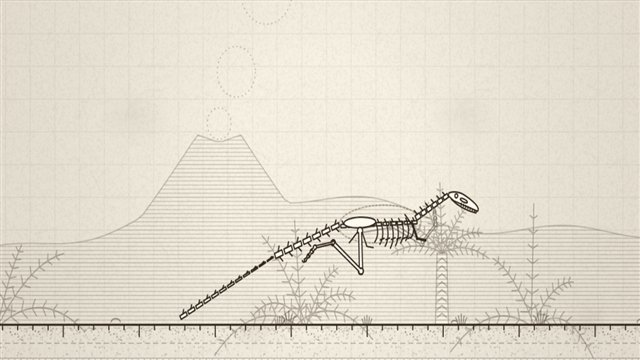
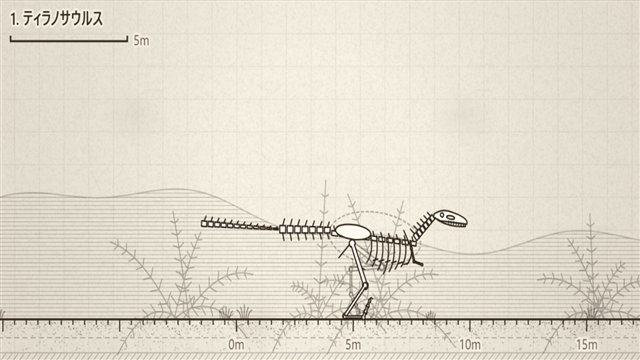
恐竜かけっこ牧場 v009-thumb: サムネイルを元のポーズのティラノに
3案から選んでもらった。?thumb=<絵>（orig・big・raptor・run）で撮り分けられる。既定は orig。

diff --git a/dino-race/js/main.js b/dino-race/js/main.js
@@ -38,14 +38,23 @@ for (const x of ranch) noteRecord(x);
 let resizeT = 0;
 addEventListener('resize', () => { clearTimeout(resizeT); resizeT = setTimeout(() => { paintPortraits($('ranch'), ranch); paintPortraits($('nurseryBox'), kids); if (tab === 'book') drawBookChart(); measureTop(); }, 150); });
 if (new URLSearchParams(location.search).has('thumb')) {
-  // サムネイルを撮るとき（?thumb）: ティラノサウルスを数秒走らせたところで止め、title を ready に
-  // タイトルと同じ絵づくり（1匹を大きく、名前・物差しなし）。v008 からはラプトル
-  document.body.classList.add('thumb', 'titled');
-  const st = [starter(SPECIES[1])];
-  startView(st.map(x => x.g), st.map(x => x.name), {mode: 'idle-run'});
-  for (let i = 0; i < 6.3 / DT; i++) stepRace(VIEW.R); // 胴が水平に近く、脚を大きく開いた瞬間
-  updateCamera(true);
-  drawScene($('view'), VIEW.R, VIEW.cams, {title: true, labels: VIEW.labels, progressH: 0});
+  // サムネイルを撮るとき（?thumb）: 場面を描いて止め、title を ready に。?thumb=<絵> で絵を選ぶ（../tools/make-thumbs.ps1）
+  //   orig（v001〜v007 と同じ: ティラノの2.6秒目、名前と物差しつき）／big（同じティラノを、名前・物差しなしで大きく）／
+  //   raptor（orig の作りで、ラプトルが似た姿勢の瞬間）／run（v008: タイトルと同じ絵づくりで、ラプトル1匹を大きく）
+  const kind = new URLSearchParams(location.search).get('thumb') || 'orig'; // 入口のサムネイルは orig（2026-10-17 ユーザーが3案から選んだ）
+  document.body.classList.add('thumb');
+  const one = (id, t, title) => {
+    if (title) document.body.classList.add('titled');
+    const st = [starter(SPECIES.find(q => q.id === id))];
+    startView(st.map(x => x.g), st.map(x => x.name), {mode: 'idle-run'});
+    for (let i = 0; i < t / DT; i++) stepRace(VIEW.R);
+    updateCamera(true);
+    drawScene($('view'), VIEW.R, VIEW.cams, {title, labels: VIEW.labels, progressH: 0});
+  };
+  if (kind === 'orig') one('trex', 2.6, false);
+  else if (kind === 'big') one('trex', 2.6, true);
+  else if (kind === 'raptor') one('raptor', +(new URLSearchParams(location.search).get('t') || 2.6), false);
+  else one('raptor', 6.3, true); // 胴が水平に近く、脚を大きく開いた瞬間
   document.title = 'ready';
 } else if (typeof planck === 'undefined') {
   // 物理のライブラリ（CDN）が読めなかった

diff --git a/dino-race/index.html b/dino-race/index.html
@@ -9,7 +9,7 @@
 <script>/* 言語 ja／en（まなびラボの I18N.md・edge-falls・flat-history と同じ決め方。localStorage の manabi-lang はまなびラボ・あそびラボで共通）: ?lang= → 前に選んだもの → ブラウザの言語。js の中の文は TX(日本語, 英語)、HTML は <span lang> の対 */var LANG=(function(){var q=new URLSearchParams(location.search).get('lang'),s=null;if(new URLSearchParams(location.search).has('thumb'))q='ja';/* サムネイルは日本語 */try{s=localStorage.getItem('manabi-lang');}catch(e){}var l=q==='en'||q==='ja'?q:s==='en'||s==='ja'?s:/^ja/i.test(navigator.language||'ja')?'ja':'en';document.documentElement.lang=l;if(l==='en')document.title='Dino Sprint Ranch';return l;})();function TX(ja,en){return LANG==='en'?en:ja;}function setLang(l){try{localStorage.setItem('manabi-lang',l);}catch(e){}var u=new URL(location.href);u.searchParams.set('lang',l);location.href=u.href;}</script>
 <meta name="theme-color" content="#efe7d4" media="(prefers-color-scheme: light)">
 <meta name="theme-color" content="#16120d" media="(prefers-color-scheme: dark)">
-<link rel="stylesheet" href="css/style.css?v=9">
+<link rel="stylesheet" href="css/style.css?v=10">
 </head>
 <body class="app" data-screen="ranch">
 <header class="top">
@@ -152,18 +152,18 @@
 </template>
 
 <script src="https://cdn.jsdelivr.net/npm/planck@1.5.0/dist/planck.min.js"></script>
-<script src="js/genome.js?v=9"></script>
-<script src="js/sim.js?v=9"></script>
-<script src="js/ga.js?v=9"></script>
-<script src="js/draw.js?v=9"></script>
-<script src="js/cups.js?v=9"></script>
-<script src="js/sound.js?v=9"></script>
-<script src="js/store.js?v=9"></script>
-<script src="js/ranch.js?v=9"></script>
-<script src="js/view.js?v=9"></script>
-<script src="js/race.js?v=9"></script>
-<script src="js/sheets.js?v=9"></script>
-<script src="js/shell.js?v=9"></script>
-<script src="js/main.js?v=9"></script>
+<script src="js/genome.js?v=10"></script>
+<script src="js/sim.js?v=10"></script>
+<script src="js/ga.js?v=10"></script>
+<script src="js/draw.js?v=10"></script>
+<script src="js/cups.js?v=10"></script>
+<script src="js/sound.js?v=10"></script>
+<script src="js/store.js?v=10"></script>
+<script src="js/ranch.js?v=10"></script>
+<script src="js/view.js?v=10"></script>
+<script src="js/race.js?v=10"></script>
+<script src="js/sheets.js?v=10"></script>
+<script src="js/shell.js?v=10"></script>
+<script src="js/main.js?v=10"></script>
 </body>
 </html>

diff --git a/dino-race/launcher.html b/dino-race/launcher.html
@@ -45,6 +45,7 @@ td a{color:var(--accent)}
   </div>
   <h2>すべての版</h2>
   <table>
+    <tr><td>v009-thumb</td><td>サムネイルを元のポーズ（ティラノ・名前と物差しつき）に戻し、新しい背景で撮り直し</td></tr>
     <tr><td>v008-public</td><td><a href="versions/v008-public/index.html">英語に対応して入口へ（ver. 1.2）</a></td></tr>
     <tr><td>v007-scrollbar</td><td>スクロールバーを細く紙の色に、かけ合わせのボタンをシートの下に固定</td></tr>
     <tr><td>v006-title</td><td>タイトルのパネルを真ん中に、走るようすを画面いっぱいの背景に</td></tr>

diff --git a/dino-race/DEVNOTES.md b/dino-race/DEVNOTES.md
@@ -156,6 +156,7 @@
 13. 名前を変える・逃がす・「のこりは逃がす」が、ブラウザの確認ではなくゲームの確認画面で出る（名前は Enter でも決まる、Esc でやめる）。
 
 ## 状態
+- 2026-10-17 v009-thumb: サムネイルを3案（orig＝v007 までと同じティラノの2.6秒目・名前と物差しつき／big＝同じティラノで名前なし／raptor＝ラプトル版）から、ユーザーが orig を選んだ（ユーザー「元のポーズに近い絵が望ましい」）。`?thumb=<絵>` で選べる（既定は orig。`run` は v008 のラプトル1匹を大きく）。背景は新しい紙と遠景。
 - 2026-10-17 v008-public（`versions/v008-public`、ver. 1.2）: ユーザー「テストプレイをして問題なさそうなら EN 対応をしてトップページに移動して」。テストプレイで3つ直し（上の「テストプレイ」）、英語に対応（サブエージェント3人でファイルを分けて訳した）、サムネイルをタイトルと同じ絵づくりで撮り直し（`?thumb` はラプトル1匹を大きく）、入口に掲載。
 - 2026-10-17 v007-scrollbar: ユーザー「かけあわせるときの画面に変なスクロールバーが出る」。低い画面でシートの中身がスクロールすると、Windows の太い灰色のスクロールバーが紙の色から浮いていた → スクロールバーを細く・紙とインクの色に（全体）。かけ合わせのシートは「かけ合わせる」をシートの下に固定（`.sheet-foot`）、絵を低く。
 - 2026-10-17 v006-title: タイトルのパネルを真ん中に、走るようすを画面いっぱいの背景に（恐竜は大きく、下のほうを全身）。タイトルとかけっこの canvas が縦にはみ出していた（flex の中で canvas の縦横比の高さになる）のを `flex:1 1 0; min-height:0` で直した。
